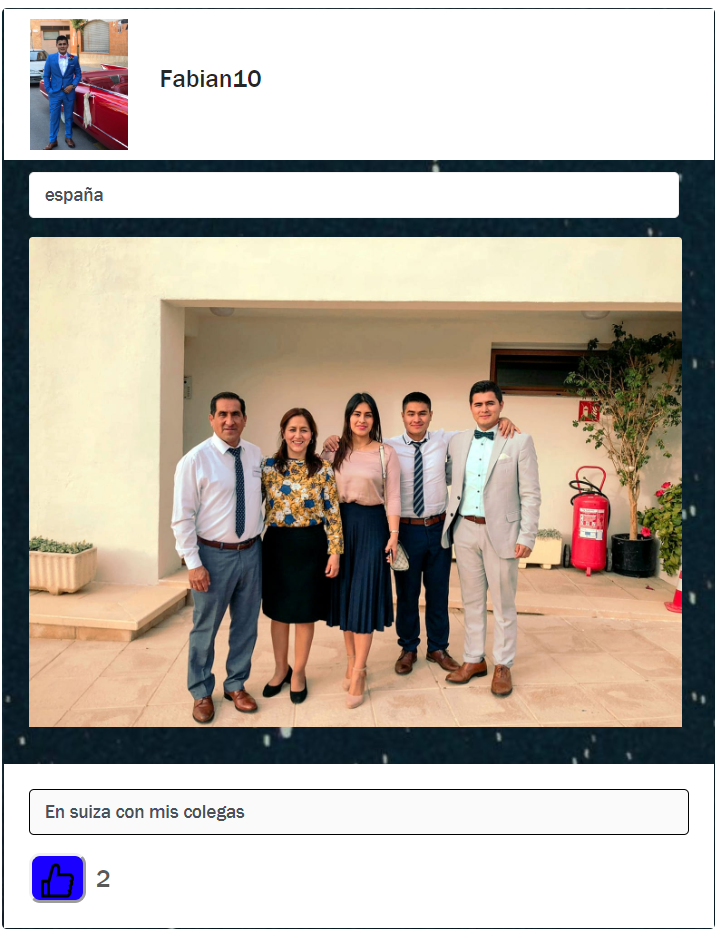
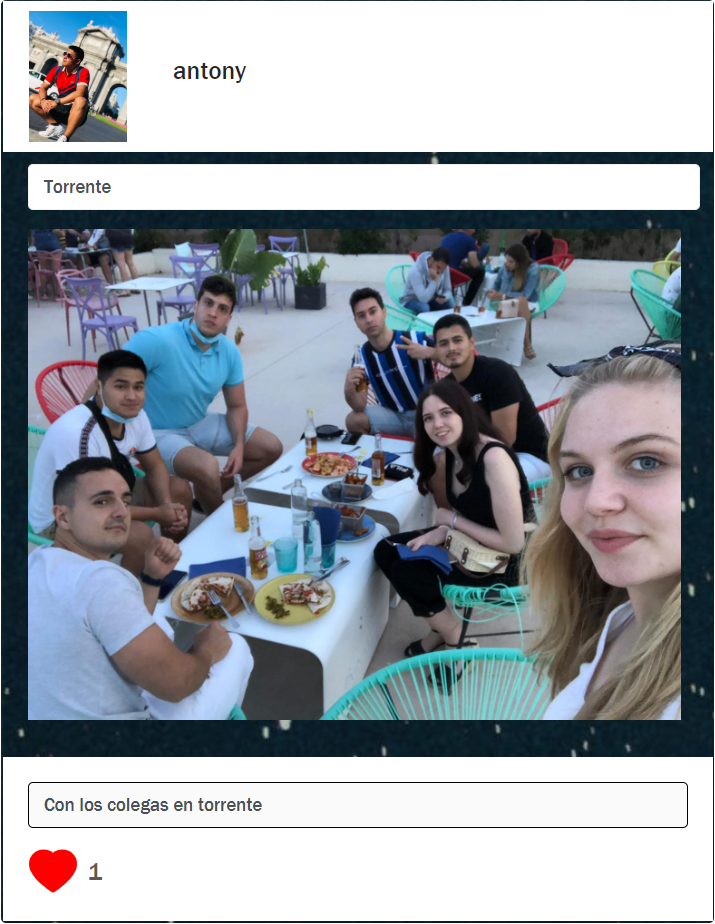
ReadmeCompleto

diff --git a/fronted/src/Containers/Muro/Muro.jsx b/fronted/src/Containers/Muro/Muro.jsx
@@ -2,12 +2,13 @@ import React, { useEffect } from 'react';
 import './Muro.scss';
 import foto1 from './foto3.jpg'
 import { connect } from 'react-redux'
-import {LikeOutlined } from '@ant-design/icons';
+import { HeartOutlined, HeartFilled } from '@ant-design/icons';
 import { NavLink } from 'react-router-dom';
-import { addPost, posts,likes } from '../../redux/action';
+import { addPost, posts, likes, dislikes } from '../../redux/action';
 
 const Muro = (props) => {
   const image = `http://localhost:8000/images/users/${props.user?.imagen}`;
+
   useEffect(() => {
     posts()
 
@@ -20,115 +21,131 @@ const Muro = (props) => {
     formData.set('name', event.target.name.value);
     formData.set('descripcion', event.target.descripcion.value);
     addPost(formData)
-
+    event.target.name.value = "";
+    event.target.descripcion.value = "";
+    event.target.img.value = "";
   }
   return (
     <div className='todo'  >
-    <div className="container">
-      <div className="row mt-4">
-        <div className="col-3">
-          <div className="card text-center d-flex align-items-center pt-3 "  >
-            <div style={{ borderRadius: '50%', overflow: 'hidden', width: '100px', height: '100px' }}  >
-              <NavLink to="/perfil">  <img src={image} style={{
-                width: '100%',
-                marginRight: 'auto',
-                marginLeft: 'auto',
-              }}
-              />
-              </NavLink>
-            </div>
-            <h5 className="mt-3"> Bienvenido: {props.user?.usuario}</h5>
-            <p>{props.user?.email}</p>
-            <a className="mb-3" href="#">Settings</a>
-          </div>
-        </div>
-        <div className="col-6">
-          <div className="row">
-            <div className="card mt-7 p-3 w-100">
-              <h6 className="mt-2 mb-2">Comienza a postear...</h6>
-              <form action="" onSubmit={handle}>
-                <div>
-                  <input type="text" placeholder="Titulo del post...." className="form-control mt-3" name="name" />
-                </div>
-                <div>
-                  <input type="text" placeholder="Descripcion......" className="form-control mt-3" name="descripcion" />
-                </div>
-                <div>
-                  <input type="file" name="img" id="file" class="input-file mt-3  " />
-                </div>
-                <div> 
-                  <button className="btn-primary mt-2" type="submit">Post </button>
-                </div>
-              </form>
-            </div>
-          </div>
-          <div className="row">
-            {props.posts.map(post => {
-              const imagen = `http://localhost:8000/images/posts/${post?.imagen}`;
-              const img = `http://localhost:8000/images/users/${post?.user.imagen}`;
-
-              return <div className=' d-flex align-items-center pt-3 w-100 '>
-                <div className='d.flex  p-0 m-0 h-auto post align-items-start  '>
-                </div>
-                <div className="card posts ">
-                  <div className="row d-flex w-100 m-0 p-0 cabezado   " /*style={{  marginLeft:'20px'}} */>
-                    <div className="col-2 p-2" /*  style={{  borderRadius:'50%', overflow:'hidden', width: '50px',height: '50px' }} */ >
-                      <NavLink to="/perfil"> <img
-                        src={img}
-                        style={{
-                          width: '100%',
-                          marginRight: 'auto',
-                          marginLeft: '13px'
-                        }}
-                      />
-                      </NavLink>
-                    </div>
-                    <div className="col-3 d-flex justify-content-center align-items-center m-0">
-                      <h5> {post?.user?.usuario}</h5>
-
-                    </div>
-
-                  </div>
-                  <p className="card-text form-control  title">
-                    {post?.name}
-                     
-                  </p>
-                  {post?.imagen ?
-                    <img src={imagen} class="card-img-top" alt="..." style={{ width: '92%', marginLeft: '20px' }} />
-                    : ""
-                  }
-
-                  <div className="card-body PiePag  ">
-                    <p className="card-text descripcion form-control  ">
-                      {post?.descripcion}
-                    </p>
-                    <div className='d-flex align-items-center  '   >
-                <button type='button' onClick={ () =>likes(post.id,post)} className="  botonlike  "><LikeOutlined   className='like' /> </button> <p className='m-0 ml-2 '  > <p className='d-flex align-items-center m-0'>{(post.likes).length}</p></p> 
-                    </div>
-                  </div>  
-                </div>
+      <div className="container">
+        <div className="row mt-4">
+          <div className="col-3">
+            <div className="card text-center d-flex align-items-center pt-3 "  >
+              <div style={{ borderRadius: '50%', overflow: 'hidden', width: '100px', height: '100px' }}  >
+                <NavLink to="/perfil">  <img src={image} style={{
+                  width: '100%',
+                  marginRight: 'auto',
+                  marginLeft: 'auto',
+                }}
+                />
+                </NavLink>
               </div>
-            })}
+              <h5 className="mt-3"> Bienvenido: {props.user?.usuario}</h5>
+              <p>{props.user?.email}</p>
+              <a className="mb-3" href="#">Settings</a>
+            </div>
+          </div>
+          <div className="col-6">
+            <div className="row">
+              <div className="card mt-7 p-3 w-100">
+                <h6 className="mt-2 mb-2">Comienza a postear...</h6>
+                <form action="" onSubmit={handle}>
+                  <div>
+                    <input type="text" placeholder="Titulo del post...." className="form-control mt-3" name="name" />
+                  </div>
+                  <div>
+                    <input type="text" placeholder="Descripcion......" className="form-control mt-3" name="descripcion" />
+                  </div>
+                  <div>
+                    <input type="file" name="img" id="file" class="input-file mt-3  " />
+                  </div>
+                  <div>
+                    <button className="btn-primary mt-2" type="submit">Post </button>
+                  </div>
+                </form>
+              </div>
+            </div>
+            <div className="row">
+              {props.posts.map(post => {
+                const likeId = post.likes.map(like=>like.user_id)
+                const yaTieneLike = likeId.includes(props.user.id)
+             /*    console.log(post.likes) */
+                const imagen = `http://localhost:8000/images/posts/${post?.imagen}`;
+                const img = `http://localhost:8000/images/users/${post?.user.imagen}`;
+
+                return <div className=' d-flex align-items-center pt-3 w-100 '>
+                  <div className='d.flex  p-0 m-0 h-auto post align-items-start  '>
+                  </div>
+                  <div className="card posts ">
+                    <div className="row d-flex w-100 m-0 p-0 cabezado   " /*style={{  marginLeft:'20px'}} */>
+                      <div className="col-2 p-2" /*  style={{  borderRadius:'50%', overflow:'hidden', width: '50px',height: '50px' }} */ >
+                        <NavLink to="/perfil"> <img
+                          src={img}
+                          style={{
+                            width: '100%',
+                            marginRight: 'auto',
+                            marginLeft: '13px'
+                          }}
+                        />
+                        </NavLink>
+                      </div>
+                      <div className="col-3 d-flex justify-content-center align-items-center m-0">
+                        <h5> {post?.user?.usuario}</h5>
+
+                      </div>
+
+                    </div>
+                    <p className="card-text form-control  title">
+                      {post?.name}
+
+                    </p>
+                    {post?.imagen ?
+                      <img src={imagen} class="card-img-top" alt="..." style={{ width: '92%', marginLeft: '20px' }} />
+                      : ""
+                    }
+
+                    <div className="card-body PiePag  ">
+                      <p className="card-text descripcion form-control  ">
+                        {post?.descripcion}
+                      </p>
+                      <div className='d-flex align-items-center  '   >
+                        {console.log(post.likes.map(like=>like.user_id))}
+                        {yaTieneLike ?
+                        
+                          <div className='d-flex align-items-center m-0'  >
+                            <button type='button' className="desaparecer" onClick={yaTieneLike ?() => dislikes(post.id, post): () =>likes(post.id, post) } ><HeartFilled className='like' /> </button><p className='m-0 ml-2 '  > <p className='     d-flex align-items-center m-0'>{(post.likes).length}</p></p> 
+                          </div>
+                          :
+                          <div className='d-flex align-items-center m-0'   >
+                            <button className="desaparecer" type='button' onClick={yaTieneLike ?() => dislikes(post.id, post): () =>likes(post.id, post)}><HeartOutlined className='like' /> </button> <p className='m-0 ml-2 '  > <p className='d-flex align-items-center m-0'>{(post.likes).length}</p></p>
+                          </div>
+                        }
+
+                      </div>
+                    </div>
+                  </div>
+                </div>
+              })}
+            </div>
+
+
           </div>
 
-
-        </div>
-
-        <div className="col-3">
-          <div className="card p-3">
-            <h6 className="mt-2 mb-2">Search your friends</h6>
-            <input
-              type="text"
-              className="form-control"
+          <div className="col-3">
+            <div className="card p-3">
+              <h6 className="mt-2 mb-2">Search your friends</h6>
+              <input
+                type="text"
+                className="form-control"
 
 
-              placeholder="Share something"
-            />
-            <a href="#" className="btn btn-primary">Search</a>
+                placeholder="Share something"
+              />
+              <a href="#" className="btn btn-primary">Search</a>
+            </div>
           </div>
         </div>
       </div>
-    </div>
     </div>
   )
 }

diff --git a/fronted/src/Containers/Muro/Muro.scss b/fronted/src/Containers/Muro/Muro.scss
@@ -24,10 +24,12 @@ font-family: 'Franklin Gothic Medium', 'Arial Narrow', Arial, sans-serif;
   background-color: rgb(25, 0, 255);
   border-radius: 9px;
   .like{
-    color: rgb(0, 0, 0);
     font-size: 30px;
   }
 }
+  .like svg{
+          color: red;
+        }
 .posts{
   background-image: url(https://i.pinimg.com/originals/10/34/96/103496f849e78a2608f90e58c828c452.jpg);
     .cabezado {
@@ -43,7 +45,7 @@ font-family: 'Franklin Gothic Medium', 'Arial Narrow', Arial, sans-serif;
 .title{
   margin-left: 20px;
   margin-top: 10px;
-  width: 520px;
+  max-width: 35vw;
   border-radius: 4px;
   font-family: 'Franklin Gothic Medium', 'Arial Narrow', Arial, sans-serif;
   font-size: 20px;
@@ -52,3 +54,7 @@ font-family: 'Franklin Gothic Medium', 'Arial Narrow', Arial, sans-serif;
 .descripcion{
   border: 1px solid black
 }
+.desaparecer{
+  all:unset
+}
+   

diff --git a/fronted/src/redux/action.js b/fronted/src/redux/action.js
@@ -70,6 +70,8 @@ export const addPost = async(formData) => {
     } catch (error) {
         console.error(error)
     }
+   
+   
     posts()
 }
 export const posts = async() => {
@@ -93,6 +95,23 @@ export const likes = async(id,post) => {
         })
         store.dispatch({
             type: 'LIKES',
+            posts: res.data
+        })
+    } catch (error) {
+        console.error(error)
+    }
+    posts()
+    
+}
+export const dislikes = async(id,post) => {
+    try {
+        const res = await axios.post(`http://localhost:8000/api/posts/dislike/${id}`,post,{
+            headers: {
+                authorization: localStorage.getItem('authToken')
+            }
+        })
+        store.dispatch({
+            type: 'DISLIKES',
             posts: res.data
         })
     } catch (error) {

diff --git a/fronted/src/Containers/UserInfo/UserInfo.jsx b/fronted/src/Containers/UserInfo/UserInfo.jsx
@@ -6,8 +6,6 @@ import {TeamOutlined} from '@ant-design/icons';
 import {ScheduleOutlined,CameraOutlined,MessageOutlined} from '@ant-design/icons';
 import {connect} from 'react-redux'
 import { addProfilePhoto, getUserInfo } from '../../redux/action'; 
-import { Upload, message, Button } from 'antd';
-import { UploadOutlined } from '@ant-design/icons';
 
 
 

diff --git a/README.md b/README.md
@@ -15,7 +15,7 @@ Necesitaremos una herramienta donde podremos trabajar , en el cual yo he utiliza
 
 _Empezamos con la instalación_
 
-_El primer paso al descargar el repositorio, tenemos que hacer el comando de abajo para poder descargar todos los modulos que hemos utilizado y asi poder hacer funcionar el proyecto, importante entrar en la carpeta de fronted y realizar el comando
+_El primer paso al descargar el repositorio, tenemos que hacer el comando de abajo para poder descargar todos los modulos que hemos utilizado y asi poder hacer funcionar el proyecto, importante entrar en la carpeta de fronted y realizar el comando_
 
   
 
@@ -45,7 +45,8 @@ _Despues de habernos registrado con exito nos redigera al login donde debemos po
 _Una vez nos hemos logueado bien no redigera a nuestro muro donde veremos nuestro foto perfil,( al ingresar tiene una foto de perfil por defecto, pero yo ya me puse una foto),tambien podremos hacer post y ver los post de las demas personas registradas_
 ### POST
 ![](./FotosReadme/post.png)
-_En esta foto podemos ver el post, sale nuestra foto que hemos subido a la red social, nuestro titulo de nuestro post y una descripcion y los likes_
+<br>
+_En esta foto podemos ver el post, sale nuestra foto que hemos subido a la red social, nuestro titulo de nuestro post y una descripcion y le podemos dar like y dislike al post_
 ### PERFIL
 ![](./FotosReadme/perfil.png)
 _Este es nuestro perfil, donde podemos ver nuestra foto de perfil y tambien la podemos cambiar, podemos ver tambien que los post que hemos subido se nos colocara automaticamente abajo en nuestras fotos._
